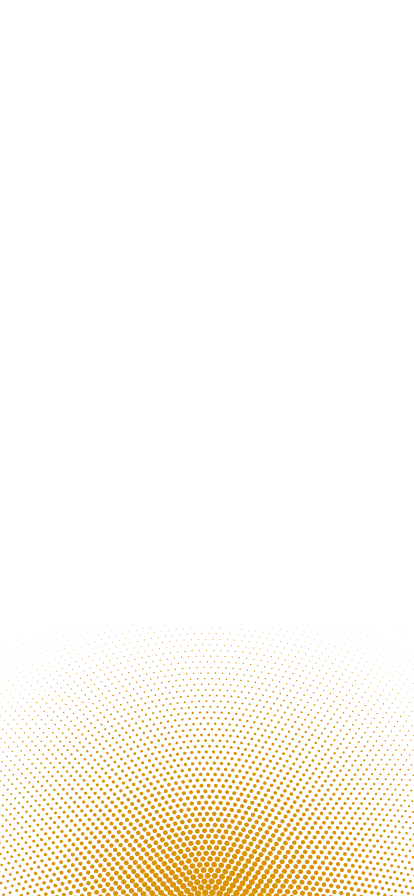
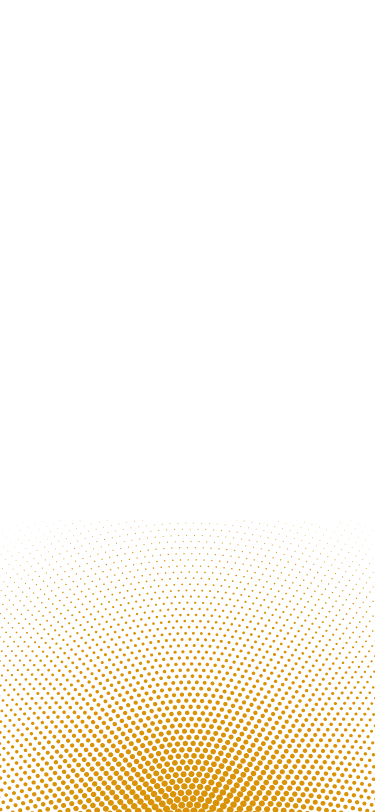
Merged in hotfix/improve-seeking-v2 (pull request #80)
layout adjusts

* conflict-fix

* conflict-fix

* orange background improved

Approved-by: Jonatas Rossi

Changed region(s): [[0.0, 0.6773, 1.0, 1.0]]

diff --git a/src/components/player/mini-player-bar/index.tsx b/src/components/player/mini-player-bar/index.tsx
@@ -100,7 +100,7 @@ class MiniPlayerBarComponent extends React.PureComponent<Props> {
                 className="mini-player-toggle p-0"
                 onClick={(): void => this.props.pauseSong()}
               >
-                <PauseIcon width={15} color={'#fff'} opacity={0.75} />
+                <PauseIcon width={13} height={18} color="#fff" opacity={0.75} />
               </button>
             ) : (
               <button

diff --git a/src/pages/profile/artists/index.tsx b/src/pages/profile/artists/index.tsx
@@ -12,7 +12,7 @@ interface DispatchProps {
 }
 interface Props extends StateProps, DispatchProps {}
 class ProfileArtistsPage extends React.PureComponent<Props> {
-  UNSAFE_componentWillMount(): void {
+  componentDidMount(): void {
     this.props.artists.length === 0 && this.props.getArtistsAPI();
   }
   render(): React.ReactNode {

diff --git a/src/theme/scss/components/_typography.scss b/src/theme/scss/components/_typography.scss
@@ -130,11 +130,11 @@ h6,.h6{ font-size: 16px }
     position: relative;
     line-height: 0.8;
 }
-.no-wrap{
-    white-space: pre-line;
-}
 .text-center{
     text-align: center;
+}
+.no-wrap{
+    white-space: nowrap;
 }
 .no-wrap-pre{
     white-space: pre;
